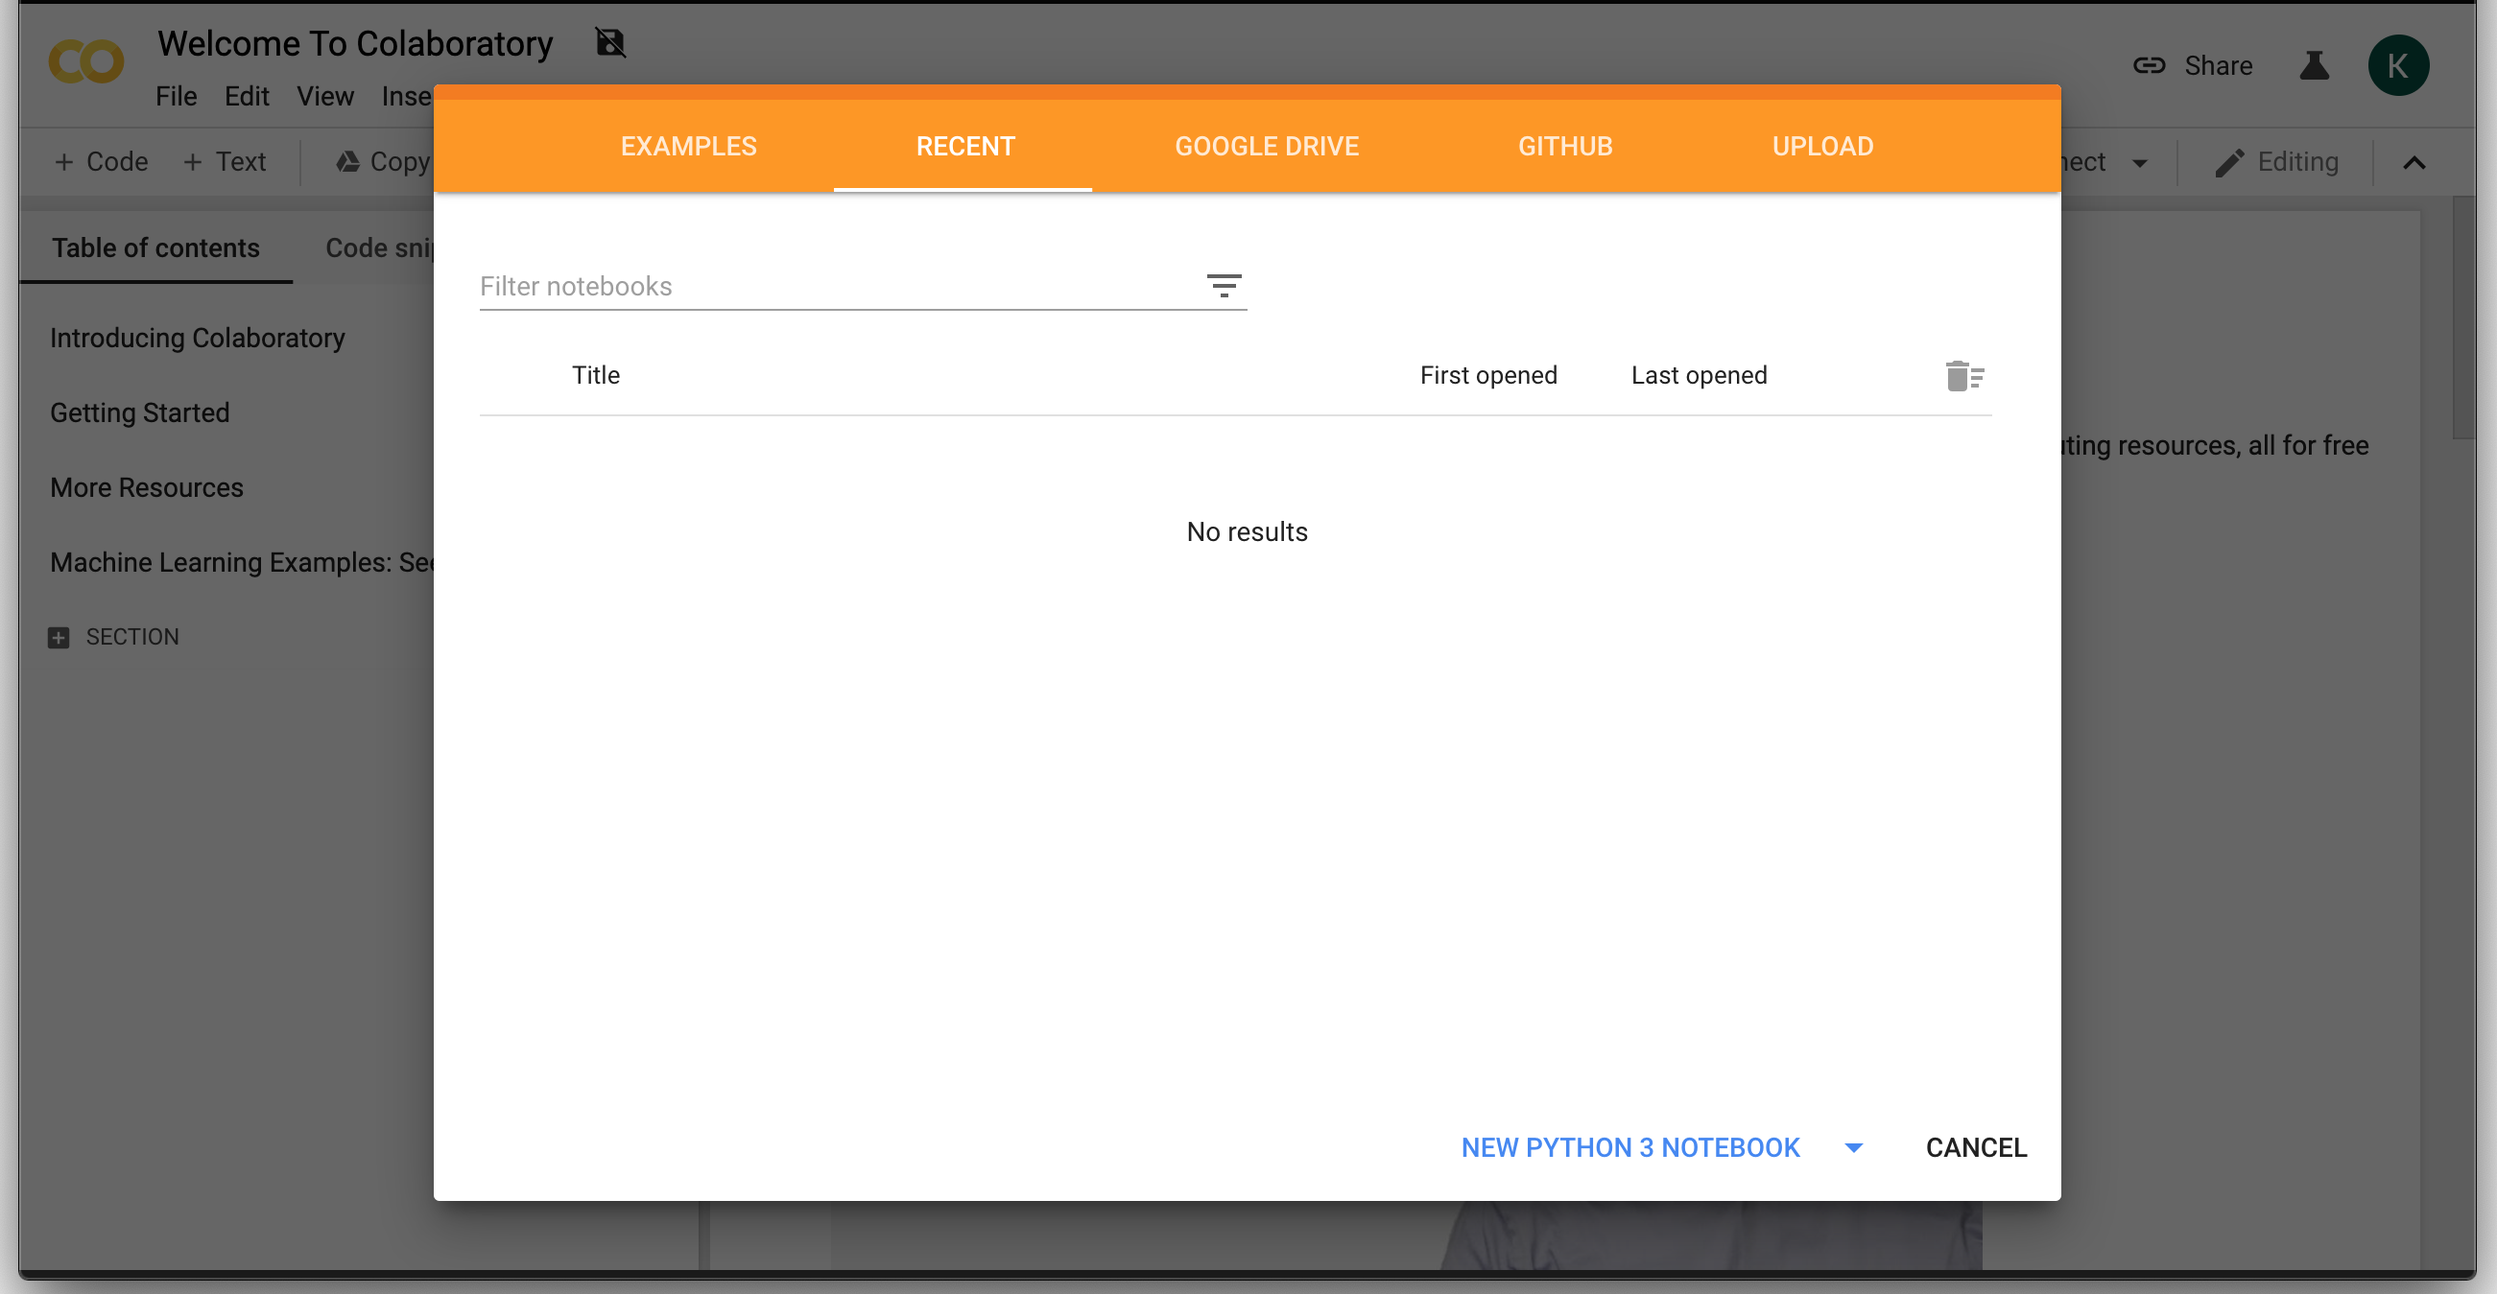
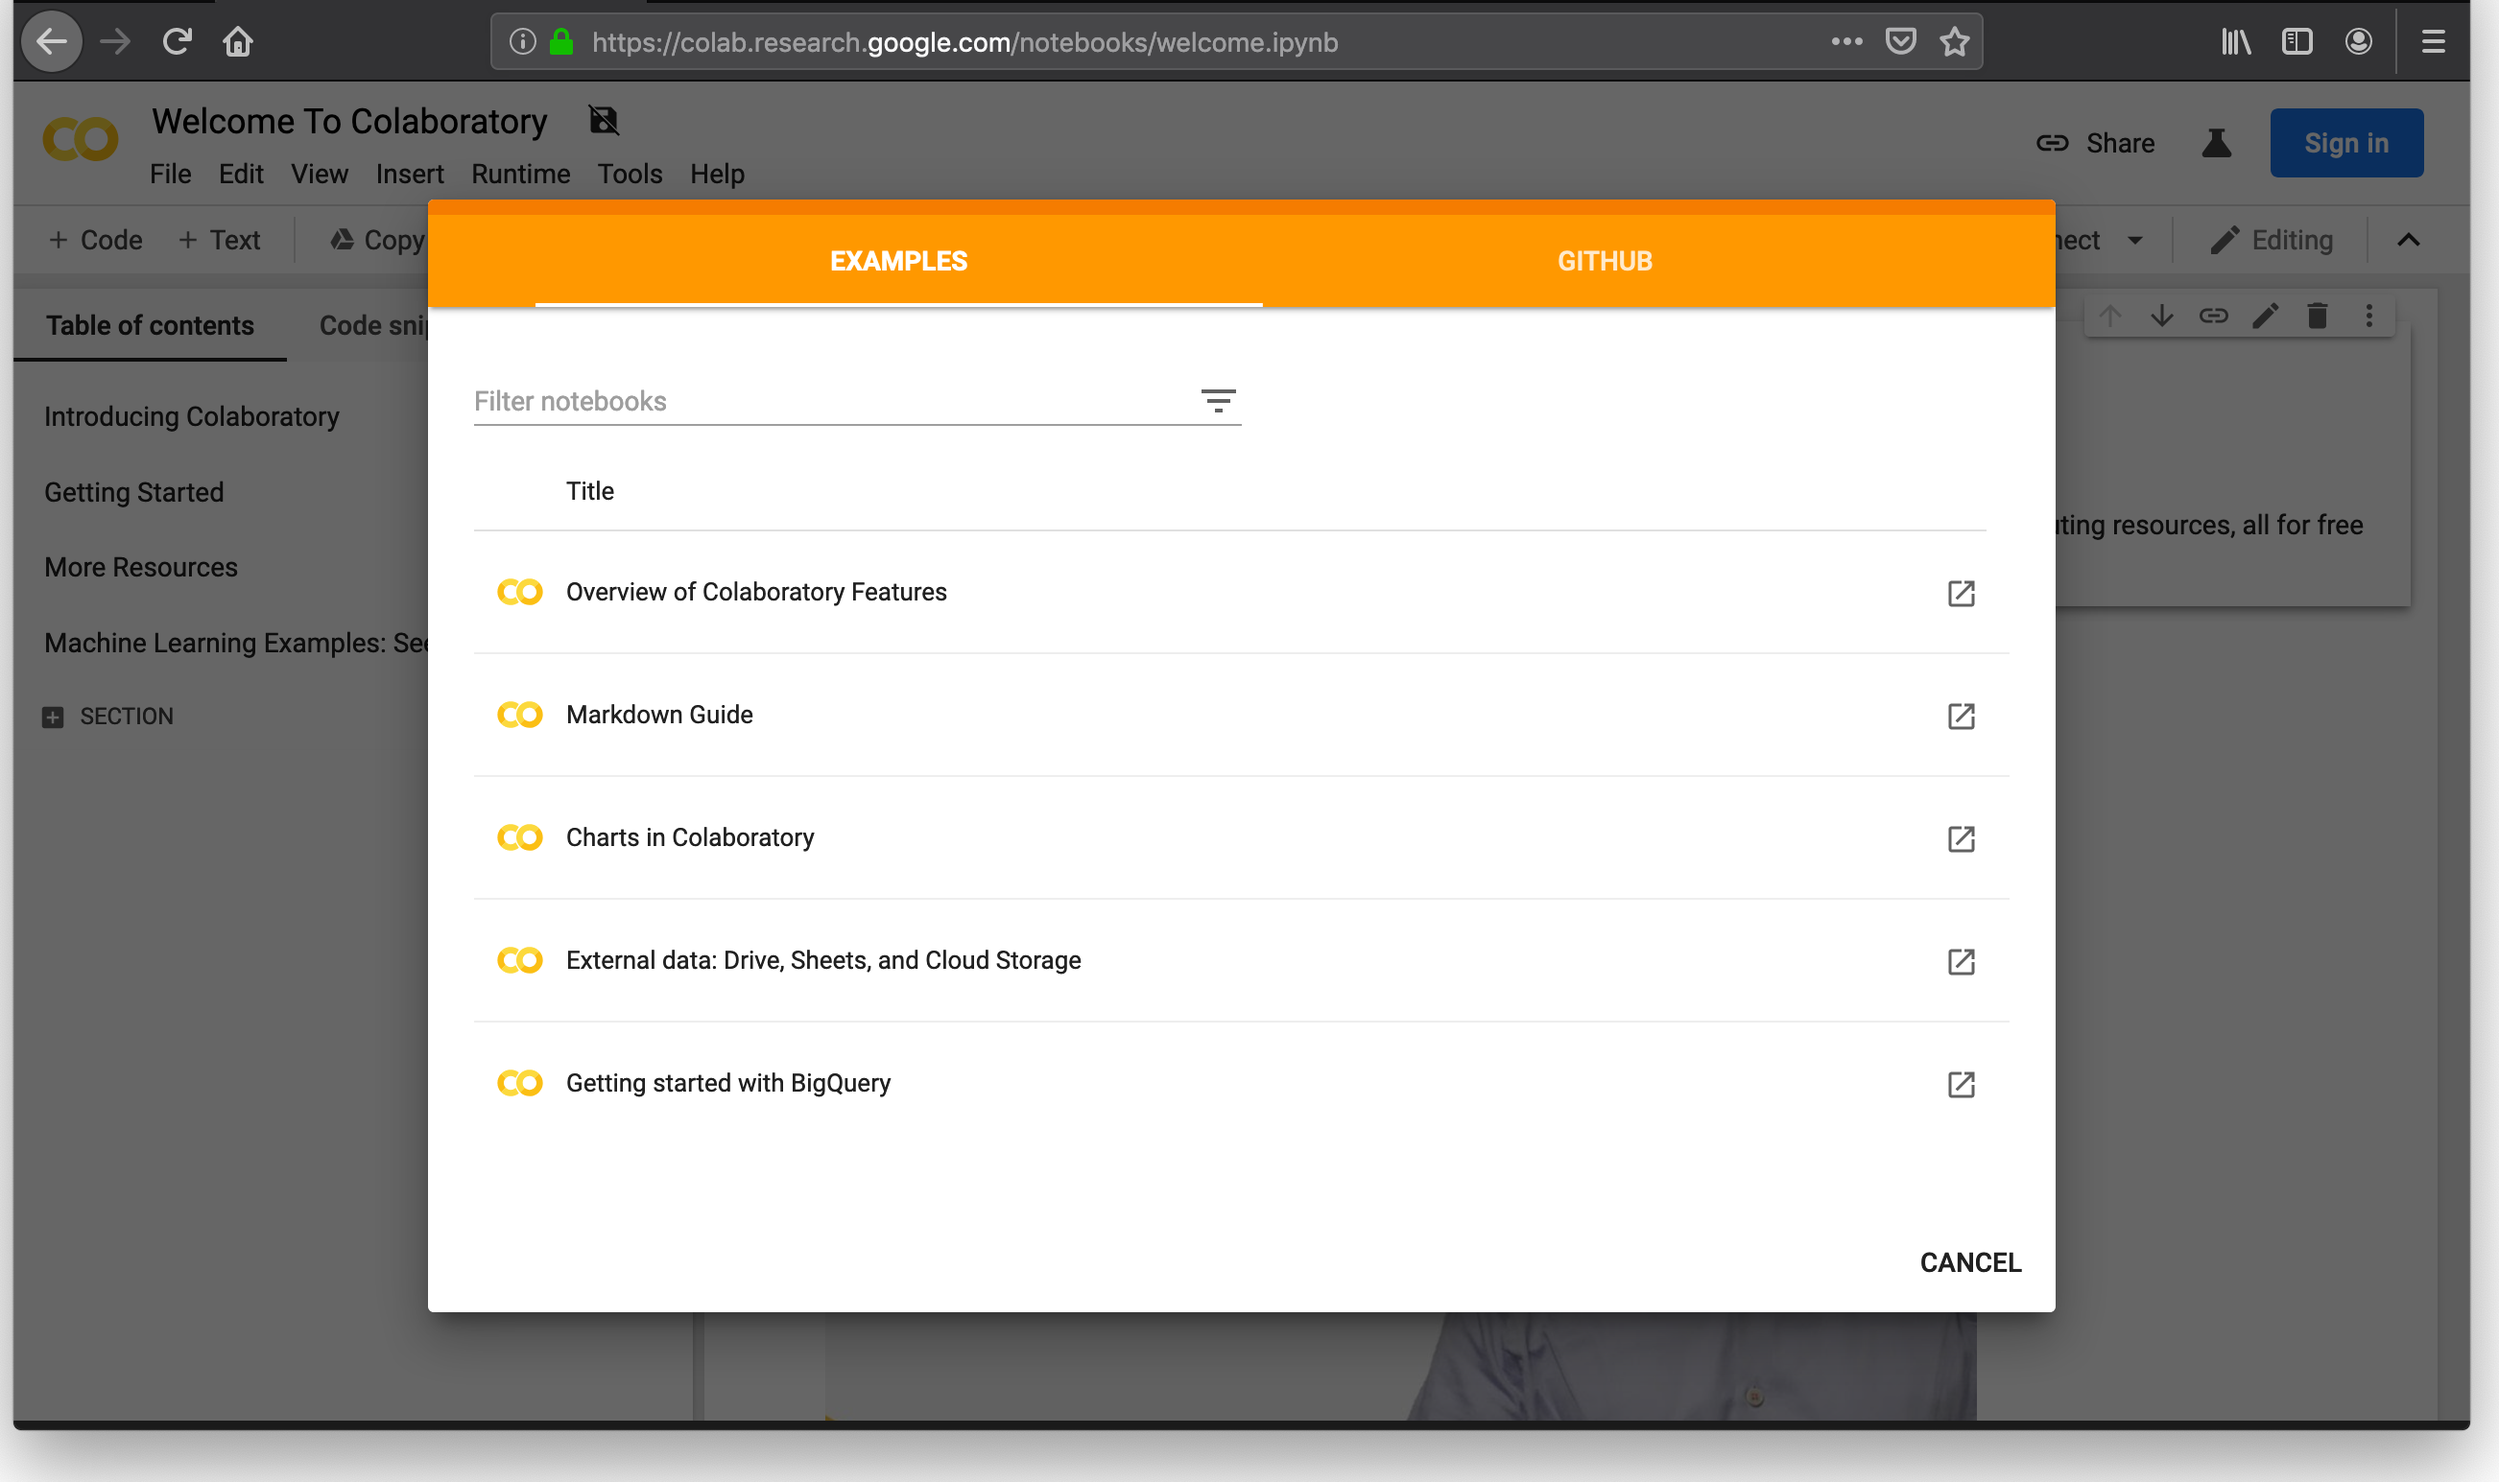
WIP

diff --git a/README.md b/README.md
@@ -20,8 +20,7 @@ See [contributing instructions](contributing.md) for creating, editing, & review
 # Lessons & Activities
 
 - Intro to Computers & Data Science [[Google Slides](https://drive.google.com/open?id=1wXjk-6O6pSbIMd9L4a_dMmZN5To1KH9yZVtTzKDPw8A)]
-0. Setup
-1. Jupyter & Python Intro
+1. Jupyter Setup
 1. Hello World
 1. Variables & Types
 1. Lists

diff --git a/Lessons/Lesson01_Jupyter-Setup.md b/Lessons/Lesson01_Jupyter-Setup.md
@@ -9,7 +9,9 @@
 
     <img src="../Figures/01colab.png" style="width: 500px;"/>
 
-1. Search for the GWC-DCMB Jupyter Intro notebook:
+1. Click on the GitHub tab.
+
+1. Search for `GWC-DCMB/ClubCurriculum/Practices/Practice01_Jupyter-Setup.ipynb`:
 
 1. When the notebook loads, you should see something like this:
 
